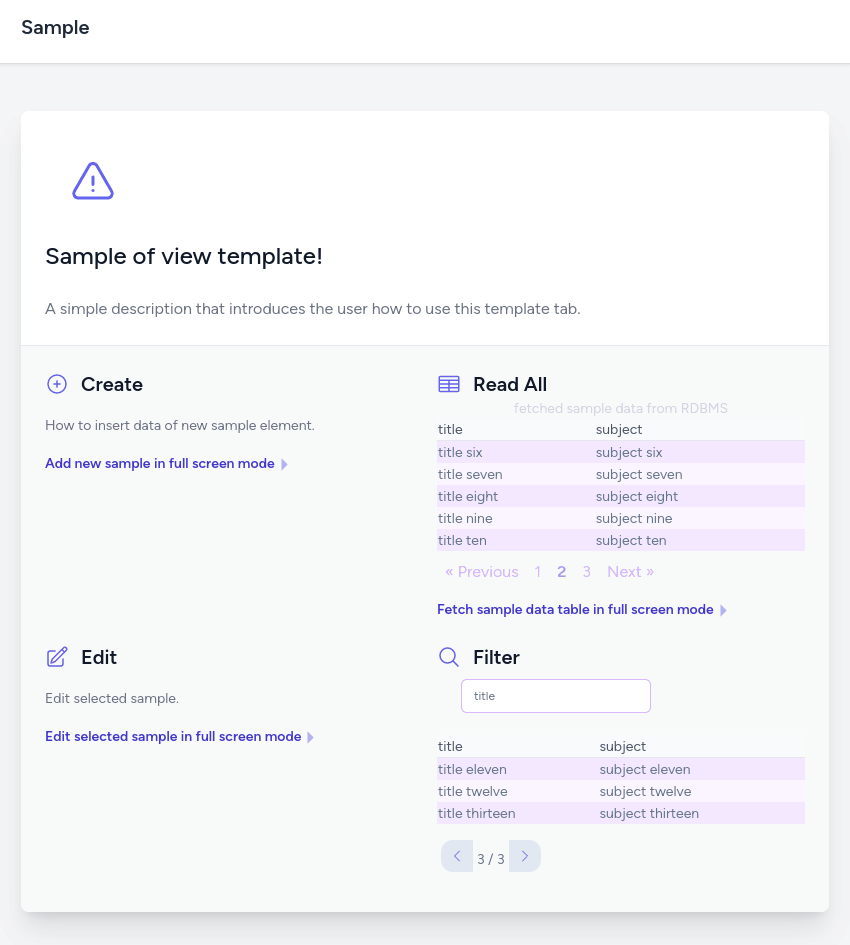
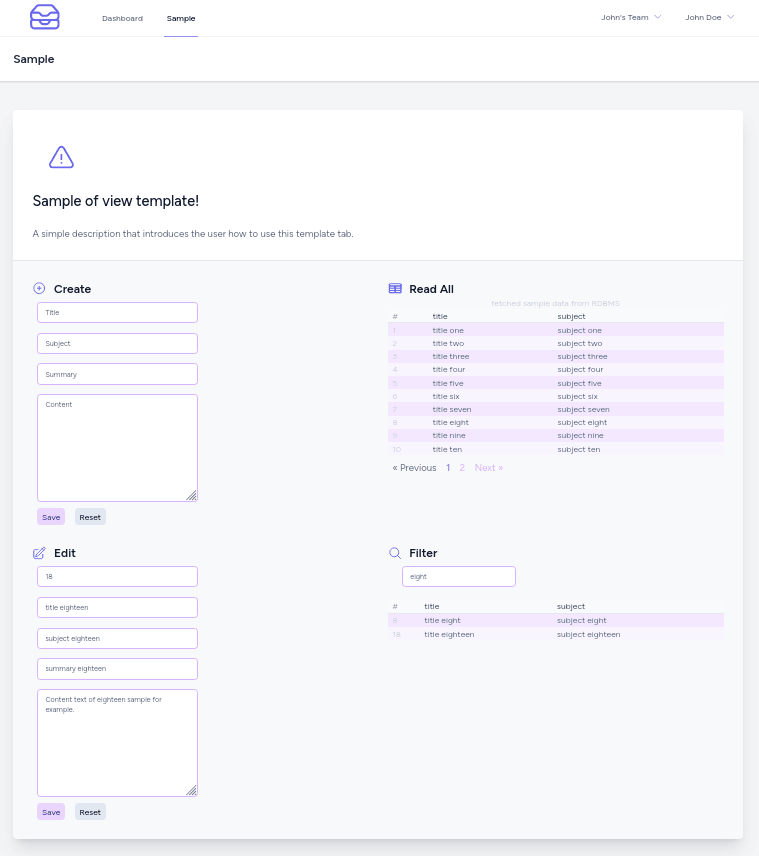
pre-filling the edit form by hovering the cursor over the item identifier in the table

diff --git a/examples/quotes/v2/quotes/resources/js/Branches/SampleBranche.vue b/examples/quotes/v2/quotes/resources/js/Branches/SampleBranche.vue
@@ -38,22 +38,13 @@
                     </h2>
                 </div>
 
+                <!-- intercepts and transmits the identifier of the object over which the mouse is hovered -->
                 <SampleTable
                     caption="fetched sample data from RDBMS"
                     :samples="samples"
+                    @grabItemIdentifierFromTable="(id) => retransmitItemIdentifier(id)"
                 />
 
-                <p class="mt-4 text-sm">
-                    <a
-                        :href="sampleIndexUrl"
-                        target="_blank"
-                        class="inline-flex items-center font-semibold text-indigo-700"
-                    >
-                        Fetch sample data table in full screen mode
-
-                        <RightArrowIcon class="size-4" />
-                    </a>
-                </p>
             </div>
 
             <div>
@@ -65,7 +56,13 @@
                     </h2>
                 </div>
 
-                <SampleEdit />
+                <div v-if="editorOneIsVisible">
+                    <SampleEdit :itemId="itemId" />
+                </div>
+
+                <div v-if="editorTwoIsVisible">
+                    <SampleEdit :itemId="itemId" />
+                </div>
 
             </div>
 
@@ -78,25 +75,41 @@
                     </h2>
                 </div>
 
-                <SampleCarousel />
+                <!-- intercepts and transmits the identifier of the object over which the mouse is hovered -->
+                <SampleCarousel @grabItemIdentifierFromCarousel="(id) => retransmitItemIdentifier(id)" />
             </div>
         </div>
     </div>
 </template>
 
 <script setup>
+import { BASE } from "@/env.js"
+import { ref } from "vue"
+
 import WithCautionIcon from "@/Icons/WithCautionIcon.vue"
 import AddElementIcon from "@/Icons/AddElementIcon.vue"
 import FetchDataIcon from "@/Icons/FetchDataIcon.vue"
 import EditElementIcon from "@/Icons/EditElementIcon.vue"
 import FilterElementIcon from "@/Icons/FilterElementIcon.vue"
-import RightArrowIcon from "@/Icons/RightArrowIcon.vue"
 import SampleCreate from "@/Pages/Samples/SampleCreate.vue"
 import SampleEdit from "@/Pages/Samples/SampleEdit.vue"
 import SampleTable from "@/Pages/Samples/SampleTable.vue"
 import SampleCarousel from "@/Pages/Samples/SampleCarousel.vue"
-import { BASE } from "@/env.js"
 
 defineProps({ samples: Object })
 const sampleIndexUrl = BASE + "sample-index"
+
+const itemId = ref(0)
+const editorOneIsVisible = ref(true)
+const editorTwoIsVisible = ref(false)
+
+function retransmitItemIdentifier(id) {
+    itemId.value = id
+    toggleEditor()
+}
+
+function toggleEditor() {
+    editorOneIsVisible.value = !editorOneIsVisible.value
+    editorTwoIsVisible.value = !editorTwoIsVisible.value
+}
 </script>

diff --git a/examples/quotes/v2/quotes/resources/js/Pages/Samples/SampleCarousel.vue b/examples/quotes/v2/quotes/resources/js/Pages/Samples/SampleCarousel.vue
@@ -50,9 +50,11 @@
                         v-for="sample in samples"
                         :key="sample.id"
                     >
+                        <!-- emits the identifier of the object being moused over -->
                         <td
-                            class="pl-2 text-sm font-light text-slate-300"
+                            class="pl-2 text-sm font-light cursor-grabbing text-slate-300"
                             v-text="sample.id"
+                            @mouseover="$emit('grabItemIdentifierFromCarousel', sample.id)"
                         ></td>
                         <td
                             class="text-sm font-light text-slate-500"
@@ -75,7 +77,7 @@
         <div v-if="togglePaginator">
             <button
                 @click="left()"
-                class="p-2 mx-1 my-4 text-sm bg-slate-200 rounded-l-xl"
+                class="p-2 mx-1 my-4 text-sm bg-slate-200 hover:shadow-md active:shadow-sm rounded-l-xl"
             >
                 <MoveLeftIcon class="size-4" />
             </button>
@@ -84,7 +86,7 @@
             >
             <button
                 @click="right()"
-                class="p-2 mx-1 my-4 text-sm bg-slate-200 rounded-r-xl"
+                class="p-2 mx-1 my-4 text-sm bg-slate-200 hover:shadow-md active:shadow-sm rounded-r-xl"
             >
                 <MoveRightIcon class="size-4" />
             </button>
@@ -112,7 +114,7 @@ watch(filtered, async (query) => {
     try {
         const res = await axios.get("/sample-filter")
         const pages = []
-        paginate(sieve(query, res.data), pages, 5)
+        paginate(sieve(query, res.data), pages, 10)
         tuples.value = pages
         console.log(tuples.value[0])
         samples.value = tuples.value[0]
@@ -150,7 +152,7 @@ function subPaginate(items, index, size) {
     return items.slice(Math.max(end - size, 0), end)
 }
 
-/** paging the items array into the pages array */
+/** paging the items array into the pages array, the size parameter determines the number of items on the page */
 function paginate(items, pages, size) {
     let numberOfPages = Math.ceil(items.length / size)
     for (let i = 0; i < numberOfPages; i++) {

diff --git a/examples/quotes/v2/quotes/resources/js/Pages/Samples/SampleEdit.vue b/examples/quotes/v2/quotes/resources/js/Pages/Samples/SampleEdit.vue
@@ -4,6 +4,18 @@
             <div>
                 <input
                     class="m-2 text-xs border border-purple-300 rounded-md caret-purple-700 focus:border-2 focus:border-purple-500 left-4 text-slate-500"
+                    v-model.lazy="edit.id"
+                    size="30"
+                    type="text"
+                    name="id"
+                    id="id"
+                    placeholder="#"
+                    readonly
+                />
+            </div>
+            <div>
+                <input
+                    class="m-2 text-xs border border-purple-300 rounded-md caret-purple-700 focus:border-2 focus:border-purple-500 left-4 text-slate-500"
                     v-model.lazy="edit.title"
                     size="30"
                     type="text"
@@ -54,10 +66,20 @@
 </template>
 
 <script setup>
-import { reactive } from "vue"
+import { reactive, onBeforeMount } from "vue"
 import { router } from "@inertiajs/vue3"
+import axios from "axios"
+
+const props = defineProps({
+    itemId: String,
+})
+
+onBeforeMount(() => {
+    fetchDataItem(props?.itemId)
+})
 
 const edit = reactive({
+    id: null,
     title: null,
     subject: null,
     summary: null,
@@ -66,5 +88,28 @@ const edit = reactive({
 
 function submit() {
     router.post("/sample-edit", edit)
+    edit.id = '#'
+    edit.title = ''
+    edit.subject = ''
+    edit.summary = ''
+    edit.content = ''
+}
+
+async function fetchDataItem(id) {
+    if (id > 0) {
+        try {
+            const res = await axios.get("/sample-read/" + id)
+            if (res.status) {
+                console.log(res.data)
+                edit.id = res.data.id
+                edit.title = res.data.title
+                edit.subject = res.data.subject
+                edit.summary = res.data?.summary
+                edit.content = res.data.content
+            }
+        } catch (error) {
+            console.log(error)
+        }
+    }
 }
 </script>

diff --git a/examples/quotes/v2/quotes/resources/js/Pages/Samples/SampleTable.vue b/examples/quotes/v2/quotes/resources/js/Pages/Samples/SampleTable.vue
@@ -44,9 +44,11 @@
                         v-for="sample in samples.data"
                         :key="sample.id"
                     >
+                        <!-- emits the identifier of the object being moused over -->
                         <td
-                            class="pl-2 text-sm font-light text-slate-300"
+                            class="pl-2 text-sm font-light cursor-grabbing text-slate-300"
                             v-text="sample.id"
+                            @mouseover="$emit('grabItemIdentifierFromTable', sample.id)"
                         ></td>
                         <td
                             class="text-sm font-light text-slate-500"
@@ -87,4 +89,9 @@ onBeforeMount(() => {
             element.summary != undefined || element.summary != null
     })
 })
+
+/** grab id of element */
+function currentIdentifier(id) {
+    console.log(id)
+}
 </script>

diff --git a/examples/quotes/v2/quotes/resources/js/Pages/Samples/SampleCreate.vue b/examples/quotes/v2/quotes/resources/js/Pages/Samples/SampleCreate.vue
@@ -66,5 +66,9 @@ const create = reactive({
 
 function submit() {
     router.post("/sample-create", create)
+    create.title = ''
+    create.subject = ''
+    create.summary = ''
+    create.content = ''
 }
 </script>

diff --git a/examples/quotes/v2/quotes/app/Http/Controllers/SampleController.php b/examples/quotes/v2/quotes/app/Http/Controllers/SampleController.php
@@ -8,6 +8,8 @@ use App\Models\Sample;
 use Illuminate\Http\Request;
 use Inertia\Inertia;
 
+use function PHPUnit\Framework\isNull;
+
 class SampleController extends Controller
 {
     /**
@@ -39,6 +41,19 @@ class SampleController extends Controller
             'content' => $sample->content,
         ]);
         return json_encode($samples);
+    }
+
+    /**
+     * Display the identified resource.
+     */
+    public function read(int $id)
+    {
+        try {
+            $sample = Sample::find($id);
+            return json_encode($sample);
+        } catch (\Exception $e) {
+            $e->getMessage();
+        }
     }
 
     /**
@@ -79,19 +94,17 @@ class SampleController extends Controller
      */
     public function edit(UpdateSampleRequest $request)
     {
-        // TODO:
-        $sample = Sample::find(13);
+        $sample = Sample::find($request['id']);
         $validate = $request->validate([
             'title' => ['required', 'max:255'],
             'subject' => ['required', 'max:255'],
             'summary' => ['max:255'],
             'content' => ['required', 'max:255'],
         ]);
-        $sample->title = $validate['title'];
-        $sample->subject = $validate['subject'];
-        $sample->summary = $validate['summary'];
-        $sample->content = $validate['content'];
-        // dd('edit: ', $sample);
+            $sample->title = $validate['title'];
+            $sample->subject = $validate['subject'];
+            $sample->summary = $validate['summary'];
+            $sample->content = $validate['content'];
         $sample->save();
         return to_route('sample');
     }

diff --git a/examples/quotes/v2/quotes/routes/web.php b/examples/quotes/v2/quotes/routes/web.php
@@ -27,7 +27,7 @@ Route::middleware([
 
     // Sample tab
     Route::get('/sample', function () {
-        $samples = Sample::paginate(5)->through(fn ($sample) => [
+        $samples = Sample::paginate(10)->through(fn ($sample) => [
             'id' => $sample->id,
             'title' => $sample->title,
             'subject' => $sample->subject,
@@ -37,6 +37,7 @@ Route::middleware([
     // Sample items thanks to the controller
     Route::get('/sample-index', [SampleController::class, 'index'])->name('sample-index');
     Route::get('/sample-filter', [SampleController::class, 'filter'])->name('sample-filter');
+    Route::get('/sample-read/{id}', [SampleController::class, 'read'])->name('sample-read');
     Route::post('/sample-create', [SampleController::class, 'create'])->name('sample-create');
     Route::post('/sample-edit', [SampleController::class, 'edit'])->name('sample-edit');
 });

diff --git a/examples/quotes/v2/quotes/README.md b/examples/quotes/v2/quotes/README.md
@@ -10,11 +10,15 @@ Which is followed by a further graphic revision.
 
 ![dashboard page](screenshots/quotes_dashboard_page.png)
 
-![sample tab](screenshots/sample_tab_with_forms.png)
+![sample tab](screenshots/sample_tab.png)
 
 Note that in the second case, the `Filter` view, I developed the pagination only on the client side.
 
 In the first case, `Read All`, each pagination requires a GET request to the server. And, in this case, I let the filter field get cleaned up.
+
+To fill out the form used to modify the items already registered in the system, simply pass the mouse over the identification number of interest shown in the tables.
+It might be interesting to note that to do what has just been said in a component logic it is necessary to call a function present in the parent component passing it an identifier present in a child component thanks to an `emit`.
+I then used a `props` to pass the identifier to another child component, which then performs a GET which is used to obtain all the data necessary to populate the form.
 
 ## how to
 
